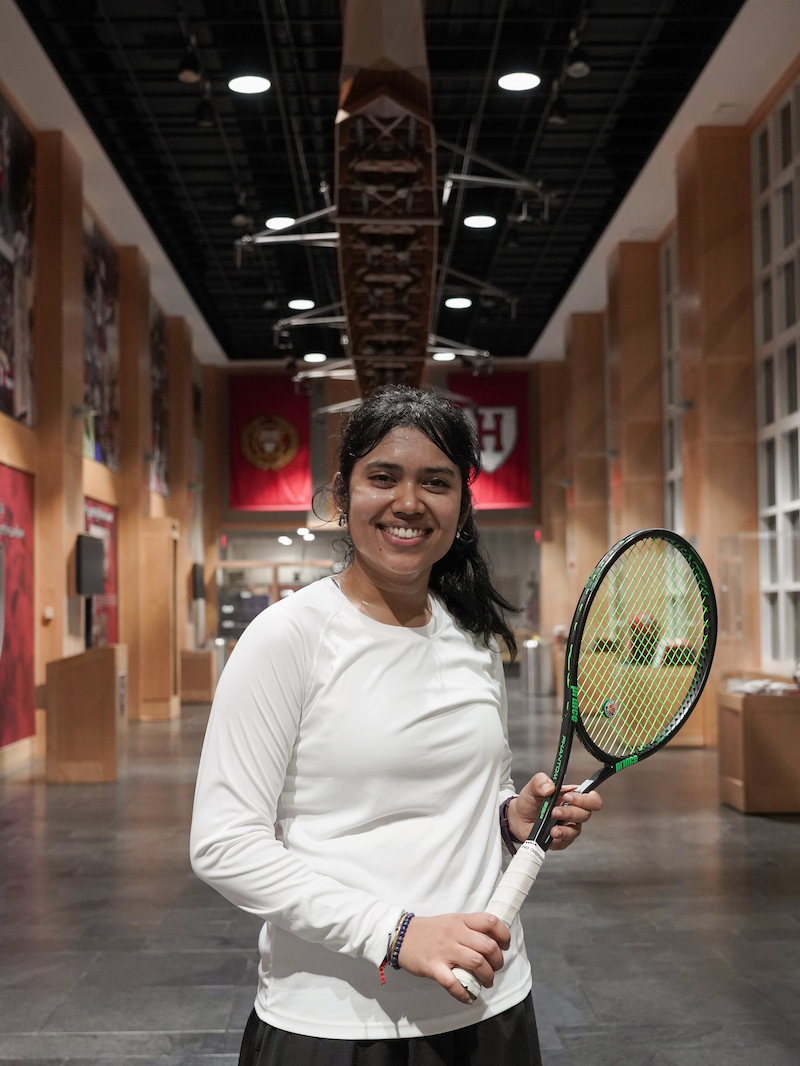
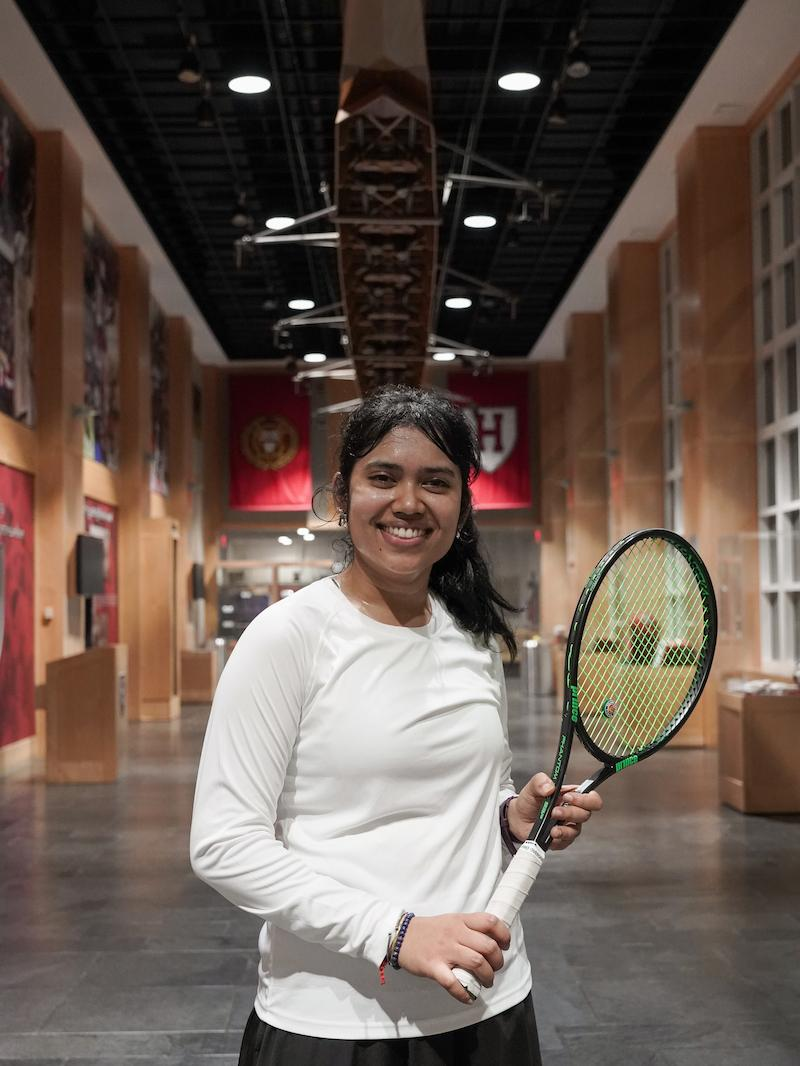
Compress photos, add mobile menu, update officers and pricing
- Recompress officer headshots (800px, q75) and hero photo (2400px); ~5.6 MB -> ~1.1 MB
- Add a menu button with dropdown nav on screens under 900px (both pages)
- Use "Harvard Graduate Tennis Club" consistently in footer and alt text
- Remove unused CSS left from old footer/sign-up blocks
- Membership is now $30/semester
- Rita Abani is President; Nic Achuthan remains an officer
- Move Astrid Petropoulos to Past Officers
- Add Instagram to leadership page nav

Changed region(s): [[0.7188, 0.5572, 0.875, 0.712]]

diff --git a/leadership.html b/leadership.html
@@ -49,6 +49,18 @@
   }
   .nav-cta:hover { background: var(--crimson-deep); }
 
+  /* MOBILE MENU */
+  nav { position: relative; }
+  .menu-toggle {
+    display: none; width: 44px; height: 44px; flex-shrink: 0;
+    align-items: center; justify-content: center; flex-direction: column; gap: 5px;
+    background: none; border: 1.5px solid rgba(30,30,30,0.2); border-radius: 6px; cursor: pointer;
+  }
+  .menu-toggle span { display: block; width: 18px; height: 2px; background: var(--ink); transition: transform 0.2s, opacity 0.2s; }
+  nav.open .menu-toggle span:nth-child(1) { transform: translateY(7px) rotate(45deg); }
+  nav.open .menu-toggle span:nth-child(2) { opacity: 0; }
+  nav.open .menu-toggle span:nth-child(3) { transform: translateY(-7px) rotate(-45deg); }
+
   /* PAGE HEADER */
   .page-head { max-width: 1280px; margin: 0 auto; padding: 48px 48px 64px; }
   .page-head .eyebrow { font-size: 17px; font-weight: 500; color: var(--mortar); margin-bottom: 18px; }
@@ -129,7 +141,17 @@
     nav { padding: 20px 24px; }
     .page-head, .team, .past, .join-content { padding-left: 24px; padding-right: 24px; }
     .section-label { padding-left: 24px; padding-right: 24px; }
-    .nav-links { display: none; }
+    .nav-right { gap: 12px; }
+    .menu-toggle { display: flex; }
+    .nav-cta { font-size: 14px; padding: 11px 16px; white-space: nowrap; }
+    .nav-links {
+      display: none; position: absolute; top: 100%; left: 24px; right: 24px; z-index: 50;
+      flex-direction: column; gap: 0; padding: 8px; background: var(--cream);
+      border-radius: 10px; box-shadow: 0 12px 32px rgba(30,30,30,0.15);
+    }
+    nav.open .nav-links { display: flex; }
+    .nav-links a { padding: 14px 16px; opacity: 1; font-size: 16px; border-radius: 6px; }
+    .nav-links a:hover { background: var(--beige); }
     .brand { font-size: 15px; }
     .team-grid { grid-template-columns: repeat(2, 1fr); gap: 28px 20px; }
     .past-row { grid-template-columns: 1fr; gap: 6px; }
@@ -142,12 +164,14 @@
 <nav>
   <a href="index.html" class="brand">Harvard Graduate Tennis Club</a>
   <div class="nav-right">
-    <div class="nav-links">
+    <div class="nav-links" id="nav-links">
       <a href="index.html#events">Events</a>
       <a href="index.html#how">How It Works</a>
       <a href="leadership.html" class="active">Leadership</a>
+      <a href="https://www.instagram.com/harvard_grad_tennis_club/" target="_blank">Instagram</a>
     </div>
    <a href="https://docs.google.com/forms/d/1S2SS2_oEjFC9LeZhb5DVs4G8AgGqv0lL6LyE40gG2-0/viewform" target="_blank" class="nav-cta">Become a Member</a>
+    <button class="menu-toggle" type="button" aria-label="Open menu" aria-expanded="false" aria-controls="nav-links"><span></span><span></span><span></span></button>
   </div>
 </nav>
 
@@ -162,21 +186,7 @@
 <section class="team">
   <div class="team-grid">
 
-    <!-- Nicholas Achuthan — President -->
-    <div class="member">
-      <div class="photo">
-        <img src="officers/nic.jpg" alt="Nicholas Achuthan">
-      </div>
-      <div class="name">
-        Nicholas Achuthan
-        <a href="https://www.linkedin.com/in/nicholas-achuthan/" target="_blank" rel="noopener">
-          <svg xmlns="http://www.w3.org/2000/svg" width="14" height="14" viewBox="0 0 24 24" fill="#8C8179"><path d="M20.447 20.452h-3.554v-5.569c0-1.328-.027-3.037-1.852-3.037-1.853 0-2.136 1.445-2.136 2.939v5.667H9.351V9h3.414v1.561h.046c.477-.9 1.637-1.85 3.37-1.85 3.601 0 4.267 2.37 4.267 5.455v6.286zM5.337 7.433a2.062 2.062 0 0 1-2.063-2.065 2.064 2.064 0 1 1 2.063 2.065zm1.782 13.019H3.555V9h3.564v11.452zM22.225 0H1.771C.792 0 0 .774 0 1.729v20.542C0 23.227.792 24 1.771 24h20.451C23.2 24 24 23.227 24 22.271V1.729C24 .774 23.2 0 22.222 0h.003z"/></svg>
-        </a>
-      </div>
-      <div class="role">President</div>
-    </div>
-
-    <!-- Rita Abani -->
+    <!-- Rita Abani — President -->
     <div class="member">
       <div class="photo">
         <img src="officers/rita.jpg" alt="Rita Abani">
@@ -184,6 +194,20 @@
       <div class="name">
         Rita Abani
         <a href="https://www.linkedin.com/in/rita-abani/" target="_blank" rel="noopener">
+          <svg xmlns="http://www.w3.org/2000/svg" width="14" height="14" viewBox="0 0 24 24" fill="#8C8179"><path d="M20.447 20.452h-3.554v-5.569c0-1.328-.027-3.037-1.852-3.037-1.853 0-2.136 1.445-2.136 2.939v5.667H9.351V9h3.414v1.561h.046c.477-.9 1.637-1.85 3.37-1.85 3.601 0 4.267 2.37 4.267 5.455v6.286zM5.337 7.433a2.062 2.062 0 0 1-2.063-2.065 2.064 2.064 0 1 1 2.063 2.065zm1.782 13.019H3.555V9h3.564v11.452zM22.225 0H1.771C.792 0 0 .774 0 1.729v20.542C0 23.227.792 24 1.771 24h20.451C23.2 24 24 23.227 24 22.271V1.729C24 .774 23.2 0 22.222 0h.003z"/></svg>
+        </a>
+      </div>
+      <div class="role">President</div>
+    </div>
+
+    <!-- Nicholas Achuthan -->
+    <div class="member">
+      <div class="photo">
+        <img src="officers/nic.jpg" alt="Nicholas Achuthan">
+      </div>
+      <div class="name">
+        Nicholas Achuthan
+        <a href="https://www.linkedin.com/in/nicholas-achuthan/" target="_blank" rel="noopener">
           <svg xmlns="http://www.w3.org/2000/svg" width="14" height="14" viewBox="0 0 24 24" fill="#8C8179"><path d="M20.447 20.452h-3.554v-5.569c0-1.328-.027-3.037-1.852-3.037-1.853 0-2.136 1.445-2.136 2.939v5.667H9.351V9h3.414v1.561h.046c.477-.9 1.637-1.85 3.37-1.85 3.601 0 4.267 2.37 4.267 5.455v6.286zM5.337 7.433a2.062 2.062 0 0 1-2.063-2.065 2.064 2.064 0 1 1 2.063 2.065zm1.782 13.019H3.555V9h3.564v11.452zM22.225 0H1.771C.792 0 0 .774 0 1.729v20.542C0 23.227.792 24 1.771 24h20.451C23.2 24 24 23.227 24 22.271V1.729C24 .774 23.2 0 22.222 0h.003z"/></svg>
         </a>
       </div>
@@ -221,20 +245,6 @@
       <div class="name">
         Max Jiang
         <a href="https://www.linkedin.com/in/max-z-jiang-9aa141191/" target="_blank" rel="noopener">
-          <svg xmlns="http://www.w3.org/2000/svg" width="14" height="14" viewBox="0 0 24 24" fill="#8C8179"><path d="M20.447 20.452h-3.554v-5.569c0-1.328-.027-3.037-1.852-3.037-1.853 0-2.136 1.445-2.136 2.939v5.667H9.351V9h3.414v1.561h.046c.477-.9 1.637-1.85 3.37-1.85 3.601 0 4.267 2.37 4.267 5.455v6.286zM5.337 7.433a2.062 2.062 0 0 1-2.063-2.065 2.064 2.064 0 1 1 2.063 2.065zm1.782 13.019H3.555V9h3.564v11.452zM22.225 0H1.771C.792 0 0 .774 0 1.729v20.542C0 23.227.792 24 1.771 24h20.451C23.2 24 24 23.227 24 22.271V1.729C24 .774 23.2 0 22.222 0h.003z"/></svg>
-        </a>
-      </div>
-      <div class="role">Officer</div>
-    </div>
-
-    <!-- Astrid Petropoulos -->
-    <div class="member">
-      <div class="photo">
-        <img src="officers/astrid.jpg" alt="Astrid Petropoulos" style="transform: scale(1.4); transform-origin: center 60%;">
-      </div>
-      <div class="name">
-        Astrid Petropoulos
-        <a href="https://www.linkedin.com/in/astrid-petropoulos/" target="_blank" rel="noopener">
           <svg xmlns="http://www.w3.org/2000/svg" width="14" height="14" viewBox="0 0 24 24" fill="#8C8179"><path d="M20.447 20.452h-3.554v-5.569c0-1.328-.027-3.037-1.852-3.037-1.853 0-2.136 1.445-2.136 2.939v5.667H9.351V9h3.414v1.561h.046c.477-.9 1.637-1.85 3.37-1.85 3.601 0 4.267 2.37 4.267 5.455v6.286zM5.337 7.433a2.062 2.062 0 0 1-2.063-2.065 2.064 2.064 0 1 1 2.063 2.065zm1.782 13.019H3.555V9h3.564v11.452zM22.225 0H1.771C.792 0 0 .774 0 1.729v20.542C0 23.227.792 24 1.771 24h20.451C23.2 24 24 23.227 24 22.271V1.729C24 .774 23.2 0 22.222 0h.003z"/></svg>
         </a>
       </div>
@@ -316,6 +326,19 @@
       <div class="past-desc">PhD, Computer Science, Class of 2025. Now Research Scientist at Meta.</div>
     </div>
 
+    <div class="past-row">
+      <div>
+        <div class="past-name">
+          Astrid Petropoulos
+          <a href="https://www.linkedin.com/in/astrid-petropoulos/" target="_blank" rel="noopener">
+            <svg xmlns="http://www.w3.org/2000/svg" width="14" height="14" viewBox="0 0 24 24" fill="#8C8179"><path d="M20.447 20.452h-3.554v-5.569c0-1.328-.027-3.037-1.852-3.037-1.853 0-2.136 1.445-2.136 2.939v5.667H9.351V9h3.414v1.561h.046c.477-.9 1.637-1.85 3.37-1.85 3.601 0 4.267 2.37 4.267 5.455v6.286zM5.337 7.433a2.062 2.062 0 0 1-2.063-2.065 2.064 2.064 0 1 1 2.063 2.065zm1.782 13.019H3.555V9h3.564v11.452zM22.225 0H1.771C.792 0 0 .774 0 1.729v20.542C0 23.227.792 24 1.771 24h20.451C23.2 24 24 23.227 24 22.271V1.729C24 .774 23.2 0 22.222 0h.003z"/></svg>
+          </a>
+        </div>
+        <div class="past-role">Officer</div>
+      </div>
+      <div class="past-desc"></div>
+    </div>
+
   </div>
 </section>
 
@@ -331,10 +354,25 @@
     </div>
   </div>
   <div class="footer-base">
-    <div>&copy; 2026 Harvard Griffin GSAS Tennis Club</div>
+    <div>&copy; 2026 Harvard Graduate Tennis Club</div>
     <div>A registered Harvard University student organization.</div>
   </div>
 </section>
 
+<script>
+  (function () {
+    var nav = document.querySelector('nav');
+    var btn = nav.querySelector('.menu-toggle');
+    function setOpen(open) {
+      nav.classList.toggle('open', open);
+      btn.setAttribute('aria-expanded', open);
+      btn.setAttribute('aria-label', open ? 'Close menu' : 'Open menu');
+    }
+    btn.addEventListener('click', function () { setOpen(!nav.classList.contains('open')); });
+    nav.querySelectorAll('.nav-links a').forEach(function (a) { a.addEventListener('click', function () { setOpen(false); }); });
+    document.addEventListener('keydown', function (e) { if (e.key === 'Escape') setOpen(false); });
+    document.addEventListener('click', function (e) { if (!nav.contains(e.target)) setOpen(false); });
+  })();
+</script>
 </body>
 </html>

diff --git a/index.html b/index.html
@@ -49,6 +49,18 @@
   }
   .nav-cta:hover { background: var(--crimson-deep); }
 
+  /* MOBILE MENU */
+  nav { position: relative; }
+  .menu-toggle {
+    display: none; width: 44px; height: 44px; flex-shrink: 0;
+    align-items: center; justify-content: center; flex-direction: column; gap: 5px;
+    background: none; border: 1.5px solid rgba(30,30,30,0.2); border-radius: 6px; cursor: pointer;
+  }
+  .menu-toggle span { display: block; width: 18px; height: 2px; background: var(--ink); transition: transform 0.2s, opacity 0.2s; }
+  nav.open .menu-toggle span:nth-child(1) { transform: translateY(7px) rotate(45deg); }
+  nav.open .menu-toggle span:nth-child(2) { opacity: 0; }
+  nav.open .menu-toggle span:nth-child(3) { transform: translateY(-7px) rotate(-45deg); }
+
   /* HERO PHOTO */
   .hero-photo {
     padding: 24px 48px 0;
@@ -76,22 +88,6 @@
   .hero h1 .accent { color: var(--crimson); }
   .hero-right { padding-top: 8px; }
   .hero-desc { font-size: 18px; color: var(--mortar); line-height: 1.65; margin-bottom: 28px; }
-  .hero-cta {
-    display: inline-block; background: var(--crimson); color: #fff;
-    font-weight: 700; font-size: 15px; padding: 15px 28px; transition: background 0.15s;
-  }
-  .hero-cta:hover { background: var(--crimson-deep); }
-
-  /* IMG SLOT (used in footer band) */
-  .img-slot {
-    position: relative; background: var(--ivy); overflow: hidden;
-    display: flex; align-items: center; justify-content: center;
-  }
-  .img-slot img { width: 100%; height: 100%; object-fit: cover; display: block; }
-  .img-slot .placeholder {
-    color: rgba(255,255,255,0.92); font-size: 13px; font-weight: 600;
-    letter-spacing: 0.04em; text-align: center; padding: 24px; line-height: 1.6; z-index: 1;
-  }
 
   /* INFO STRIP */
   .info-strip { background: var(--crimson-soft); padding: 56px 48px; }
@@ -153,25 +149,10 @@
 
   /* JOIN / FOOTER BAND */
   .join-band { background: var(--ivy); color: var(--cream); }
-  .join-images { display: grid; grid-template-columns: 1fr 1fr; }
-  .join-images .img-slot { aspect-ratio: 16 / 10; background: var(--ivy-deep); }
-  .join-content {
-    display: grid; grid-template-columns: 1fr 1fr 1fr; gap: 40px; align-items: start;
-    max-width: 1280px; margin: 0 auto; padding: 64px 48px 56px;
-  }
+  .join-content { max-width: 1280px; margin: 0 auto; padding: 64px 48px 56px; }
   .join-org { font-size: 21px; font-weight: 700; }
   .join-org .meta { font-weight: 400; font-size: 15px; color: var(--pear); margin-top: 14px; line-height: 1.7; }
   .join-org .meta a { text-decoration: underline; }
-  .join-cta-box { text-align: center; }
-  .join-cta-box h3 { font-size: 28px; font-weight: 800; margin-bottom: 20px; letter-spacing: -0.01em; }
-  .join-btn {
-    display: inline-block; background: var(--cream); color: var(--ink); font-weight: 700;
-    font-size: 16px; padding: 16px 36px; transition: background 0.15s;
-  }
-  .join-btn:hover { background: #fff; }
-  .join-cta-box p { font-size: 14px; color: var(--pear); margin-top: 16px; }
-  .join-links { text-align: right; font-size: 16px; }
-  .join-links a { display: block; text-decoration: underline; margin-bottom: 10px; }
   .footer-base {
     border-top: 1px solid rgba(245,242,235,0.2); max-width: 1280px; margin: 0 auto;
     padding: 24px 48px 40px; display: flex; justify-content: space-between;
@@ -181,15 +162,23 @@
   /* RESPONSIVE */
   @media (max-width: 900px) {
     nav, .hero-photo, .hero, .events, .how, .join-content { padding-left: 24px; padding-right: 24px; }
-    .nav-links { display: none; }
+    .brand { font-size: 15px; }
+    .nav-right { gap: 12px; }
+    .menu-toggle { display: flex; }
+    .nav-cta { font-size: 14px; padding: 11px 16px; white-space: nowrap; }
+    .nav-links {
+      display: none; position: absolute; top: 100%; left: 24px; right: 24px; z-index: 50;
+      flex-direction: column; gap: 0; padding: 8px; background: var(--cream);
+      border-radius: 10px; box-shadow: 0 12px 32px rgba(30,30,30,0.15);
+    }
+    nav.open .nav-links { display: flex; }
+    .nav-links a { padding: 14px 16px; opacity: 1; font-size: 16px; border-radius: 6px; }
+    .nav-links a:hover { background: var(--beige); }
     .hero { grid-template-columns: 1fr; gap: 32px; padding-bottom: 64px; }
     .info-grid { grid-template-columns: 1fr 1fr; gap: 28px; }
     .event-row { grid-template-columns: 1fr; gap: 8px; padding: 24px 0; }
     .event-tag { margin-top: 4px; }
     .how-grid { grid-template-columns: 1fr; gap: 36px; }
-    .join-images { grid-template-columns: 1fr; }
-    .join-content { grid-template-columns: 1fr; gap: 36px; text-align: left; }
-    .join-cta-box, .join-links { text-align: left; }
     .footer-base { flex-direction: column; gap: 8px; }
   }
 </style>
@@ -199,18 +188,19 @@
 <nav>
   <div class="brand">Harvard Graduate Tennis Club</div>
   <div class="nav-right">
-    <div class="nav-links">
+    <div class="nav-links" id="nav-links">
       <a href="#events">Events</a>
       <a href="#how">How It Works</a>
       <a href="leadership.html">Leadership</a>
       <a href="https://www.instagram.com/harvard_grad_tennis_club/" target="_blank">Instagram</a>
     </div>
     <a href="https://docs.google.com/forms/d/1S2SS2_oEjFC9LeZhb5DVs4G8AgGqv0lL6LyE40gG2-0/viewform" target="_blank" class="nav-cta">Become a Member</a>
+    <button class="menu-toggle" type="button" aria-label="Open menu" aria-expanded="false" aria-controls="nav-links"><span></span><span></span><span></span></button>
   </div>
 </nav>
 
 <div class="hero-photo">
-  <img src="images/hggtc-april2026.jpeg" alt="Harvard Griffin GSAS Tennis Club members">
+  <img src="images/hggtc-april2026.jpeg" alt="Harvard Graduate Tennis Club members">
 </div>
 
 <section class="hero">
@@ -231,7 +221,7 @@
     </div>
     <div class="info-item">
       <div class="k">Membership</div>
-      <div class="v">$15 / year<span>Sign up via Google Form</span></div>
+      <div class="v">$30/semester<span>Sign up via Google Form</span></div>
     </div>
     <div class="info-item">
       <div class="k">Skill Level</div>
@@ -300,7 +290,7 @@
     <div class="how-card">
       <div class="num">02</div>
       <h3>Become a member</h3>
-      <p>Pay the $15 annual membership fee through our Google Form once notified.</p>
+      <p>Pay the $30/semester membership fee through our Google Form once notified.</p>
     </div>
     <div class="how-card">
       <div class="num">03</div>
@@ -313,7 +303,7 @@
 <section class="join-band" id="join">
 <div class="join-content">
 <div class="join-org">
-      Harvard Griffin GSAS Tennis Club
+      Harvard Graduate Tennis Club
       <div class="meta">
         Cambridge, MA <br>
         <a href="mailto:harvardgriffingsastennisclub@gmail.com">Email us</a><br>
@@ -322,10 +312,25 @@
     </div>
   </div>
   <div class="footer-base">
-    <div>&copy; 2026 Harvard Griffin GSAS Graduate Tennis Club</div>
+    <div>&copy; 2026 Harvard Graduate Tennis Club</div>
     <div>A registered Harvard University student organization. </div>
   </div>
 </section>
 
+<script>
+  (function () {
+    var nav = document.querySelector('nav');
+    var btn = nav.querySelector('.menu-toggle');
+    function setOpen(open) {
+      nav.classList.toggle('open', open);
+      btn.setAttribute('aria-expanded', open);
+      btn.setAttribute('aria-label', open ? 'Close menu' : 'Open menu');
+    }
+    btn.addEventListener('click', function () { setOpen(!nav.classList.contains('open')); });
+    nav.querySelectorAll('.nav-links a').forEach(function (a) { a.addEventListener('click', function () { setOpen(false); }); });
+    document.addEventListener('keydown', function (e) { if (e.key === 'Escape') setOpen(false); });
+    document.addEventListener('click', function (e) { if (!nav.contains(e.target)) setOpen(false); });
+  })();
+</script>
 </body>
 </html>
